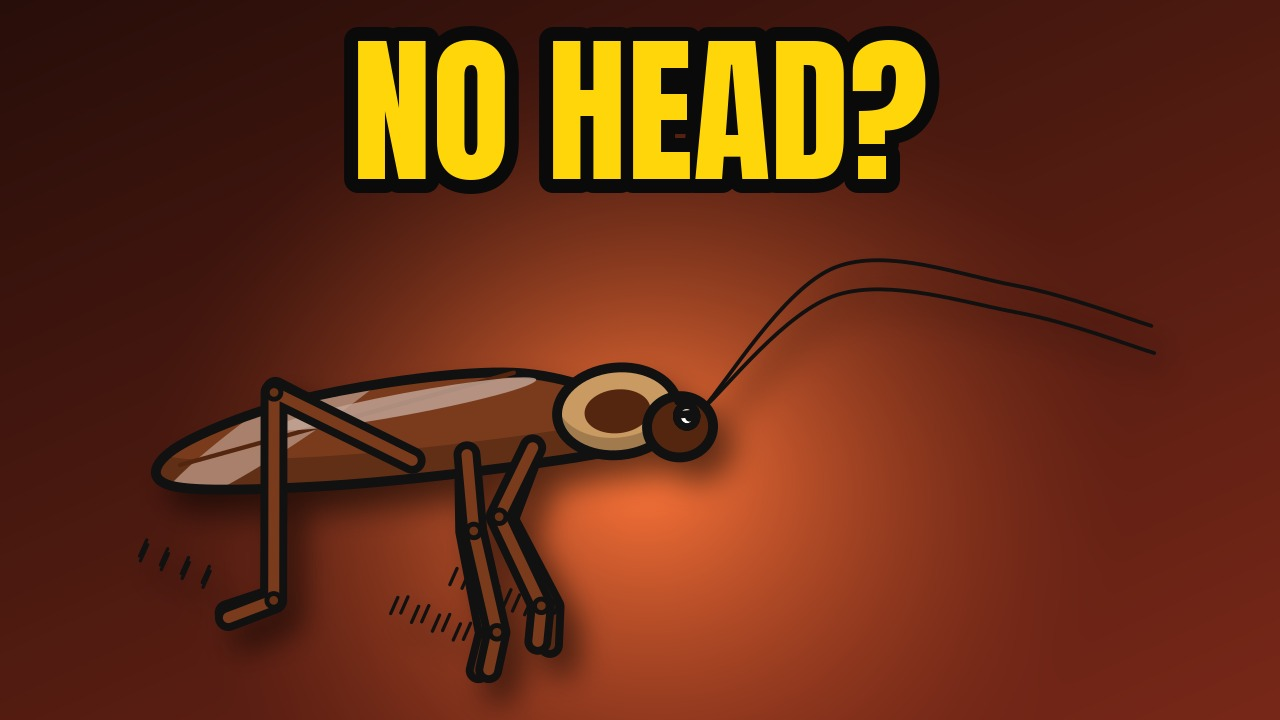
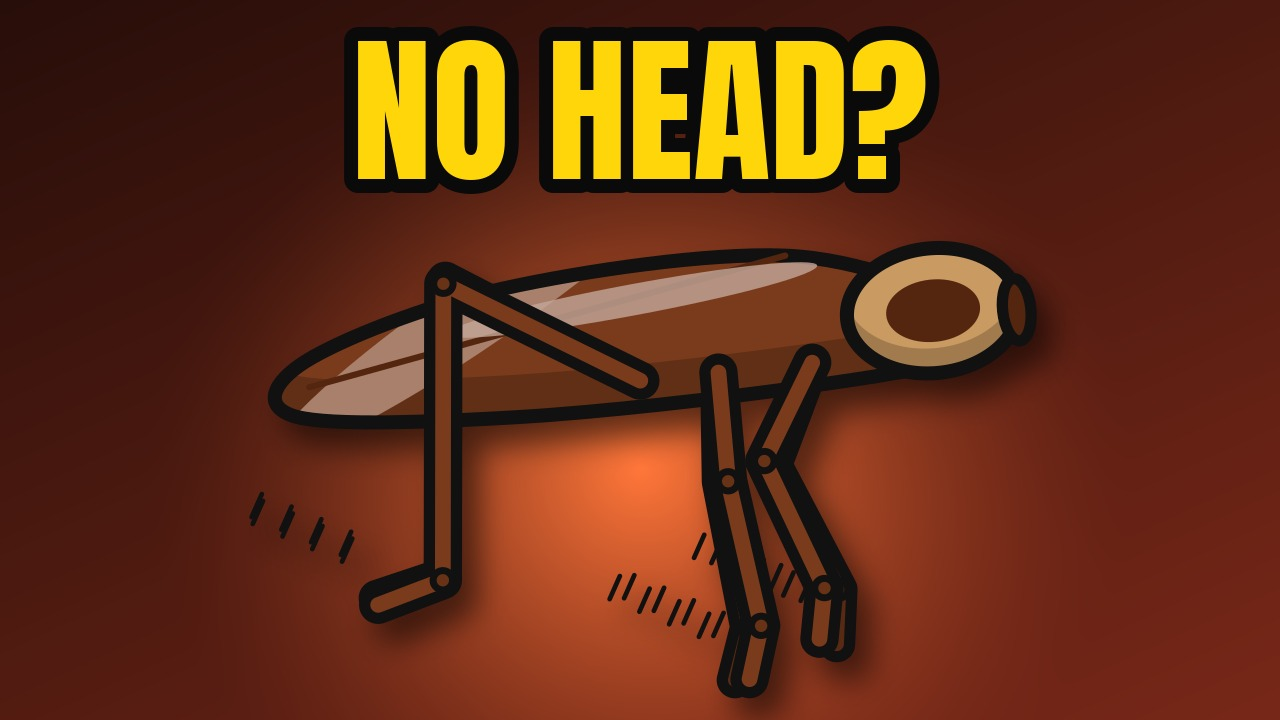
Part 2 gets the new-style thumbnail; thumbnail picks recorded
Claude-Session: https://claude.ai/code/session_0121N22LHjw2xJSLiMdFyw6P

Changed region(s): [[0.0938, 0.3361, 0.9062, 1.0], [0.125, 0.7639, 0.1562, 0.7944]]

diff --git a/skills/oh-meatball/tools/drawn_anatomy.py b/skills/oh-meatball/tools/drawn_anatomy.py
@@ -237,10 +237,23 @@ def camel_cricket(ctx, t, p):
     ctx.restore()
 
 
+def _roach_head(ctx, t, p, dk, dx=0, dy=0, wave=25, rate=4):
+    shape(ctx, lambda c: p_ellipse(c, 205 + dx, -75 + dy, 30, 28), dk, OUT, None)
+    eyes(ctx, 212 + dx, -84 + dy, 9, 0.1, p.get("look", (0.5, 0.0)), p.get("mood", "calm"), 0.0)
+    sw = math.sin(t * rate) * wave
+    for off in (0, 25):
+        stroke(ctx, [(228 + dx, -90 + dy), (360 + dx, -180 - off + dy), (520 + dx, -170 - off + sw + dy),
+                     (640 + dx, -120 - off + sw + dy)], 3.5, smooth=True)
+
+
 def cockroach(ctx, t, p):
     """American cockroach: flat glossy oval, reddish-brown wings over the body, a pale-rimmed shield behind the
-    head, spiny legs, long whip antennae. Gloss highlight is the signature."""
+    head, spiny legs, long whip antennae. Gloss highlight is the signature.
+    Opt-in params (the "no head" story, 11/10; absent = the drawing is unchanged): headless >= 0.5 leaves the head off
+    (a plain dark cap where the neck was, nothing else); head_at (dx, dy) then draws the head on its own, that far from
+    its usual place, antennae waving wide; holes 0..1 shows the row of breathing holes (spiracles) along its side."""
     col, dk = hexc("#7a3b1c"), hexc("#55260f")
+    headless = p.get("headless", 0.0) >= 0.5
     _insect_legs(ctx, t, p, col, -70, hind=1.0, near=False, w=9, spiky=True)
     shape(ctx, lambda c: p_smooth(c, [(170, -95), (60, -140), (-120, -138), (-250, -105), (-260, -70), (-120, -55),
                                       (60, -55), (170, -65)]), col, OUT, (0.0, 0.3), hi=(0.3, 0.2, 0.35))
@@ -248,12 +261,18 @@ def cockroach(ctx, t, p):
     flat(ctx, lambda c: p_ellipse(c, -40, -122, 120, 10, -0.08), lighter(col, 0.55), a=0.8)   # gloss
     shape(ctx, lambda c: p_ellipse(c, 150, -95, 55, 40), hexc("#c99a62"), OUT, (0.0, 0.2))   # pronotum shield
     flat(ctx, lambda c: p_ellipse(c, 150, -95, 30, 20), dk)
-    shape(ctx, lambda c: p_ellipse(c, 205, -75, 30, 28), dk, OUT, None)
-    eyes(ctx, 212, -84, 9, 0.1, p.get("look", (0.5, 0.0)), p.get("mood", "calm"), 0.0)
-    sw = math.sin(t * 4) * 25
-    for off in (0, 25):
-        stroke(ctx, [(228, -90), (360, -180 - off), (520, -170 - off + sw), (640, -120 - off + sw)], 3.5, smooth=True)
+    if headless:
+        shape(ctx, lambda c: p_ellipse(c, 203, -90, 9, 20), dk, OUT * 0.8, None)   # the neck, closed over
+    else:
+        _roach_head(ctx, t, p, dk)
     _insect_legs(ctx, t, p, col, -70, hind=1.0, near=True, w=10, spiky=True)
+    holes = p.get("holes", 0.0)
+    if holes > 0.01:   # spiracles: a row of small openings along the side, each breathing in turn
+        for k in range(8):
+            r = (6.5 + 2.5 * math.sin(t * 5 - k * 0.8)) * min(1.0, holes)
+            shape(ctx, lambda c, k=k, r=r: p_ellipse(c, 105 - k * 44, -96 + 1.5 * k, r, r), hexc("#8fd8ff"), OUT * 0.5, None)
+    if headless and p.get("head_at"):
+        _roach_head(ctx, t, p, dk, p["head_at"][0], p["head_at"][1], wave=70, rate=7)
 
 
 def house_centipede(ctx, t, p):

diff --git a/skills/oh-meatball/tools/drawn_keepkill.py b/skills/oh-meatball/tools/drawn_keepkill.py
@@ -303,8 +303,8 @@ def kk_silk(ctx, t, p):
             d = length * (1 - 0.14 * k) * u
             wob = 18 * u * math.sin(t * 2.6 + k * 1.9 + j * 0.55)
             pts.append((d * math.sin(a) + wob * math.cos(a), -d * math.cos(a) + wob * math.sin(a)))
-        stroke(ctx, pts, 7.0, True, (0.30, 0.40, 0.50), 0.45)   # a soft dark edge so the white reads on a pale sky
-        stroke(ctx, pts, 3.4, True, (1, 1, 1), 0.96)
+        stroke(ctx, pts, 8.0, True, (0.30, 0.40, 0.50), 0.45)   # a soft dark edge so the white reads on a pale sky
+        stroke(ctx, pts, 4.2, True, (1, 1, 1), 0.96)
 
 
 drawn.ACTORS.update(kk_board=kk_board, kk_hud=kk_hud, kk_end=kk_end, kk_count=kk_count, kk_silk=kk_silk)

diff --git a/skills/oh-meatball/tools/thumb_myths.py b/skills/oh-meatball/tools/thumb_myths.py
@@ -38,9 +38,9 @@ def thumb_a(out):   # spider dropping onto a pillow + "8 A YEAR?"
     save(im, out, "thumb_a")
 
 
-def thumb_b(out):   # the headless roach + "NO HEAD?"
+def thumb_b(out):   # the roach drawn with no head (drawn_anatomy.cockroach "headless": a plain cap, no gore) + "NO HEAD?"
     im = backdrop((40, 14, 10), (120, 40, 24), glow=(170, 90, 40), gx=0.5, gy=0.65)
-    im.alpha_composite(creature("cockroach", (1150, 520), rot=-6, p={"mood": "smug"}), (60, 200))
+    im.alpha_composite(creature("cockroach", (1150, 520), rot=-6, p={"mood": "smug", "headless": 1.0}), (60, 200))
     words(im, "NO HEAD?", (W // 2, 22), 160, (255, 214, 10, 255), "ma", 14)
     save(im, out, "thumb_b")
 

diff --git a/skills/channel-brain/MASTER_ORDERS.md b/skills/channel-brain/MASTER_ORDERS.md
@@ -141,6 +141,7 @@ Pick episodes from `CALENDAR_REALISTIC.md`, top down. Any Short that beats 2x th
   - **Our version ("Don't squish it"):** the viewer is holding the shoe and Meatball has ten minutes to talk them out of it. A shoe meter (SQUISH to SPARE) stays on screen and moves with every chapter; at least one chapter argues for the shoe; the verdict lands at the end, and some episodes end in "kill it" (bed bugs, German cockroaches, clothes moths). One creature, one story, its own arc: that is our answer to the monetization review's "templated" risk and to the clones.
   - **Title shape:** "Never Kill / Don't Squish the [creature] in Your [room]: [what it's hunting / what it's warning you about]". No questions, no "ranked", none of the banned quiz words.
   - **Thumbnail recipe (`tools/thumb_dontkill.py`):** white background, one huge illustrated creature, a shoe sole about to squish it, 2-4 hand-lettered words with one in red, a hand-drawn arrow. Nothing else.
+  - **Thumbnails made 11/10 (`oh-meatball/episodes/thumbs-dontkill/`):** Part 2 = `kk2_a.jpg` (set on the Thu 11/12 post in place of the dark `thumb_a.jpg`; Nolan to add `kk2_c.jpg` and the old `thumb_a.jpg` in Test & Compare after it posts). Centipede = `centipede_a.jpg` ("DON'T SQUISH IT!") with `centipede_b.jpg` ("IT EATS ROACHES") as the challenger. Cellar spider = `cellarspider_b.jpg` ("IT EATS SPIDERS", adds what the title doesn't say) with `cellarspider_a.jpg` as the challenger. Skip the Meatball-in-thumbnail variant: he is a brown dot at 168 px.
   - **Length:** 8-12 minutes. At the same views a 10-minute video earns 3-4x the watch hours of our 4-6 minute ones.
   - **Shorts feed it:** in the week of each long-form, two or three 16-20 s Shorts on the same creature (different facts, at least a day apart), each with Related video set to the long-form.
   - **Not known yet:** how the winners hold viewers (YouTube blocks watch pages from this machine), and whether a character-led version does better or worse than the faceless ones. Episode 1 is the test.
